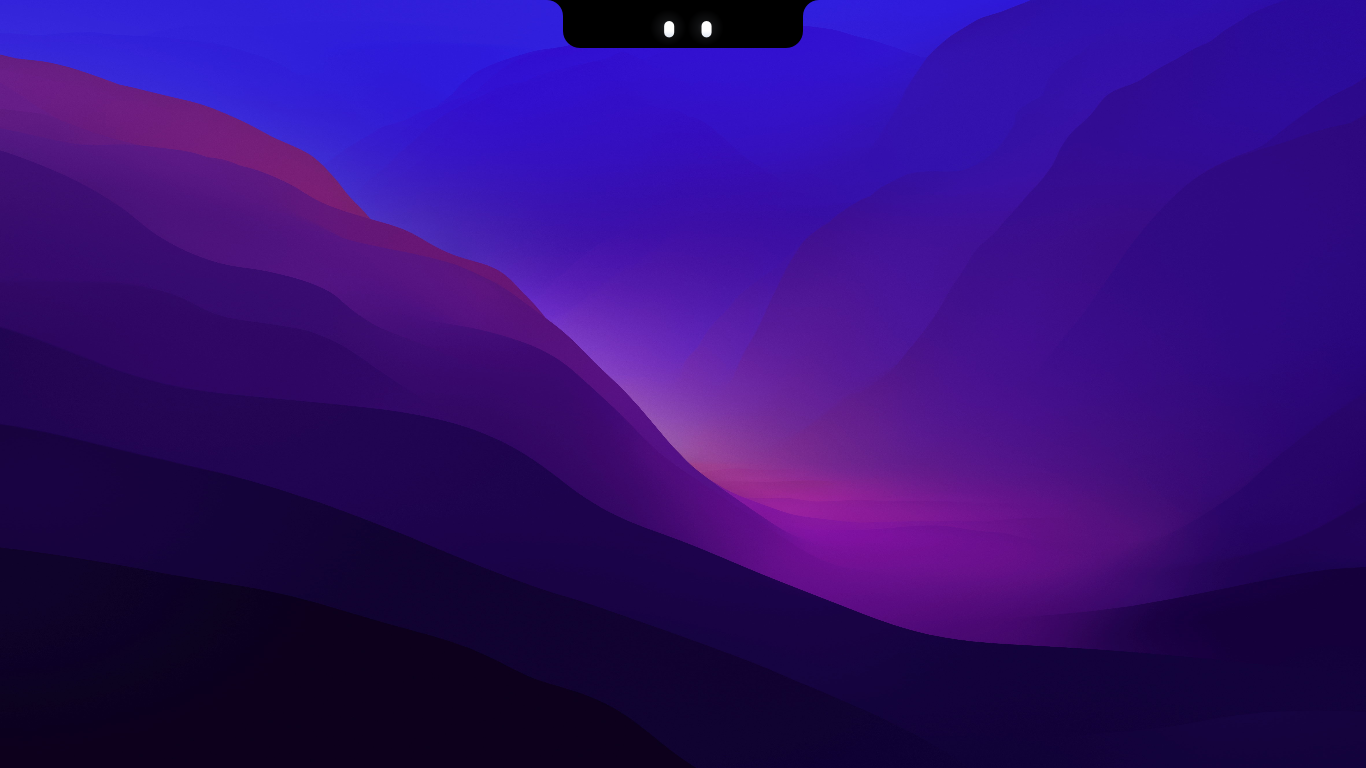
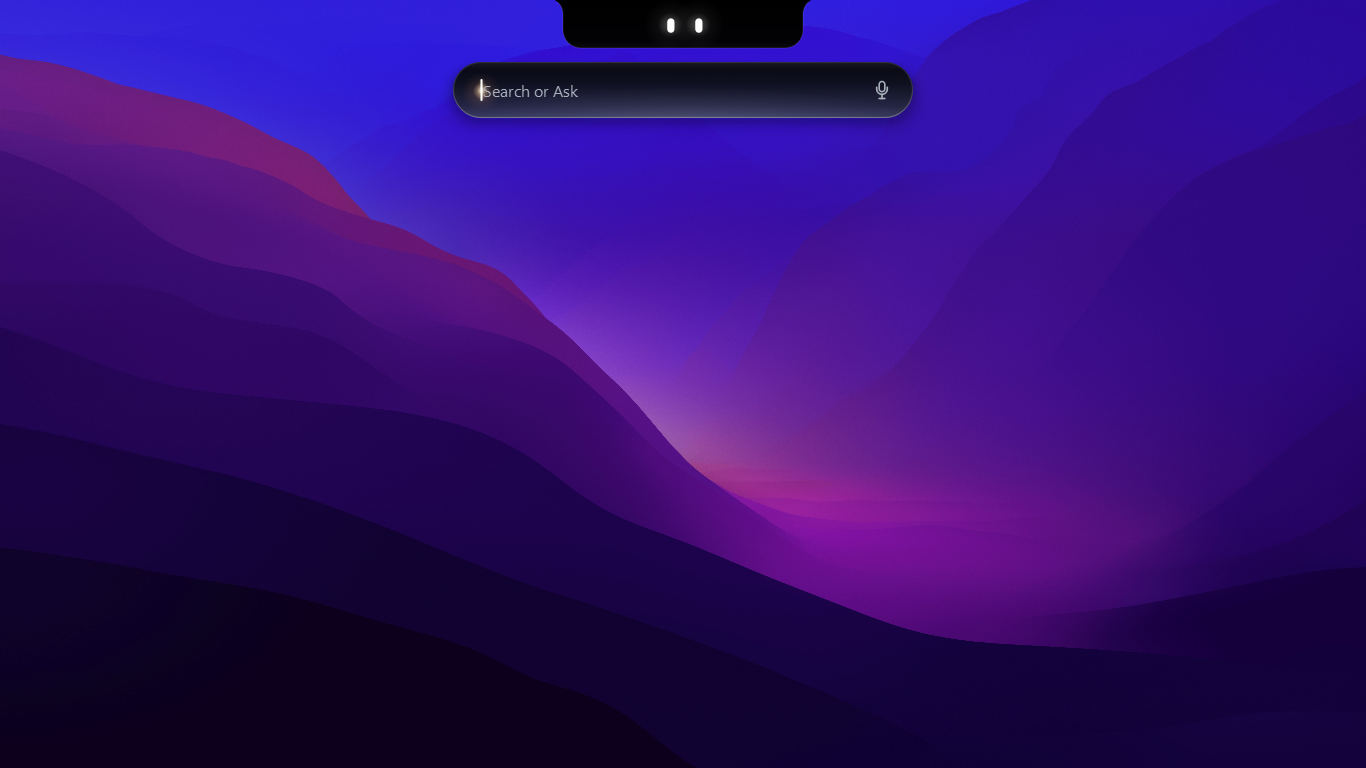
Refresh README preview assets
Update the existing image and add a new asset; point the light-mode search preview to `assets/3.png`.

Changed region(s): [[0.3075, 0.0, 0.6764, 0.1875]]

diff --git a/readme.md b/readme.md
@@ -54,7 +54,7 @@ It runs across **Windows, macOS, and Linux** with platform-native overlay integr
   </tr>
   <tr>
     <td align="center" width="50%">
-      <img src="artifacts/ui_previews/11_light_mode_search.png" alt="Light Mode Search Bar" width="100%"><br>
+      <img src="assets/3.png" alt="Light Mode Search Bar" width="100%"><br>
       <sub><b>Light Mode Notch &amp; Search Pill</b></sub>
     </td>
     <td align="center" width="50%">
